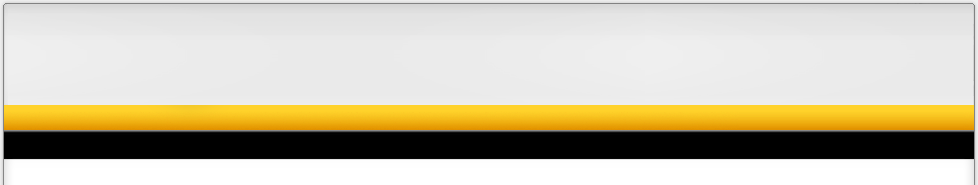
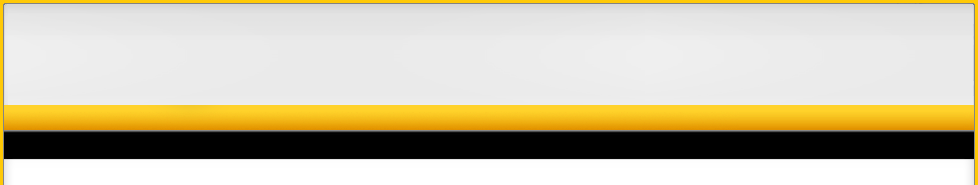
Changes background images and color in site skin

Changed region(s): [[0.0, 0.0, 1.0, 1.0]]

diff --git a/tools/mvn/skins/citrus-default-skin/src/main/resources/css/maven-theme.css b/tools/mvn/skins/citrus-default-skin/src/main/resources/css/maven-theme.css
@@ -18,7 +18,7 @@
  */
 
 body {
-  background: #F0F0F0
+  background: #FFC906
     url(../images/bg_citrus.png)
     no-repeat left top;
   background-repeat: no-repeat;
